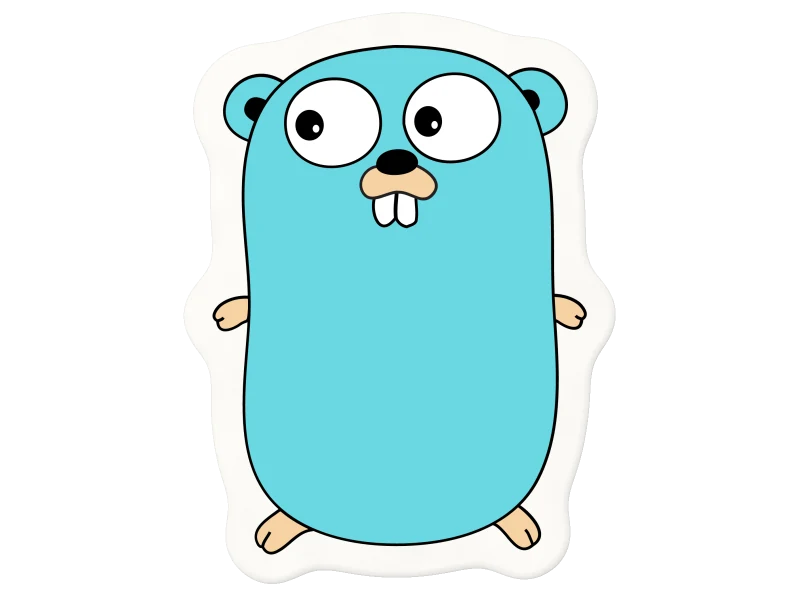
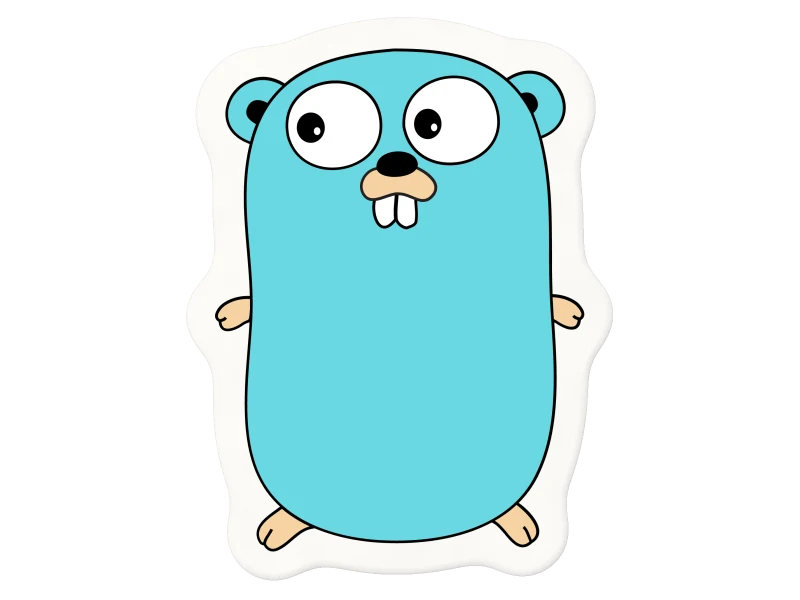
things: sticker pipeline refresh, 30 die-cut stickers, cache bump

diff --git a/frontend/things.html b/frontend/things.html
@@ -22,7 +22,7 @@
   <link rel="stylesheet" href="/css/language-switcher.css" />
 
   <!-- Things Styles -->
-  <link rel="stylesheet" href="/css/things.css?v=2026-11-09c" />
+  <link rel="stylesheet" href="/css/things.css?v=2026-11-09d" />
 
   <!-- Blip (the site's cursor agent: lives on the page, draws it as you scroll) -->
   <link rel="stylesheet" href="/css/blip-cursor.css?v=2026-10-15-perf" />
@@ -238,7 +238,7 @@
 </script>
 
 <!-- Things -->
-<script src="/js/things.js?v=2026-11-09c"></script>
+<script src="/js/things.js?v=2026-11-09d"></script>
 
 <!-- Theme JS (dynamically loaded) -->
 <script id="theme-js" src=""></script>

diff --git a/tools/stickers/make_stickers.py b/tools/stickers/make_stickers.py
@@ -377,6 +377,14 @@ def render(spec: dict, img: Image.Image, cache: Path, item_id: str) -> Image.Ima
         raise ValueError(f"unknown matte mode {mode}")
     alpha = clean_alpha(alpha, spec.get("keep", "all"), int(spec.get("erode", 1 if mode == "rembg" else 0)),
                         bool(spec.get("fill_holes", False)), int(spec.get("open", 0)))
+    if spec.get("shape") == "ellipse":  # round objects: replace a ragged matte by its fitted ellipse
+        cs, _ = cv2.findContours((alpha > 0.5).astype(np.uint8), cv2.RETR_EXTERNAL, cv2.CHAIN_APPROX_NONE)
+        (cx, cy), (ew, eh), ang = cv2.fitEllipse(max(cs, key=cv2.contourArea))
+        k = float(spec.get("shape_shrink", 0.0))
+        ss = 4
+        m = np.zeros((alpha.shape[0] * ss, alpha.shape[1] * ss), np.uint8)
+        cv2.ellipse(m, ((cx * ss, cy * ss), (ew * ss * (1 - k), eh * ss * (1 - k)), ang), 255, -1)
+        alpha = cv2.resize(m.astype(np.float32) / 255, alpha.shape[::-1], interpolation=cv2.INTER_AREA)
     rgba = rgba.copy()
     rgba[..., 3] = alpha
     if spec.get("rotate"):  # after matting, so the turned corners stay transparent
